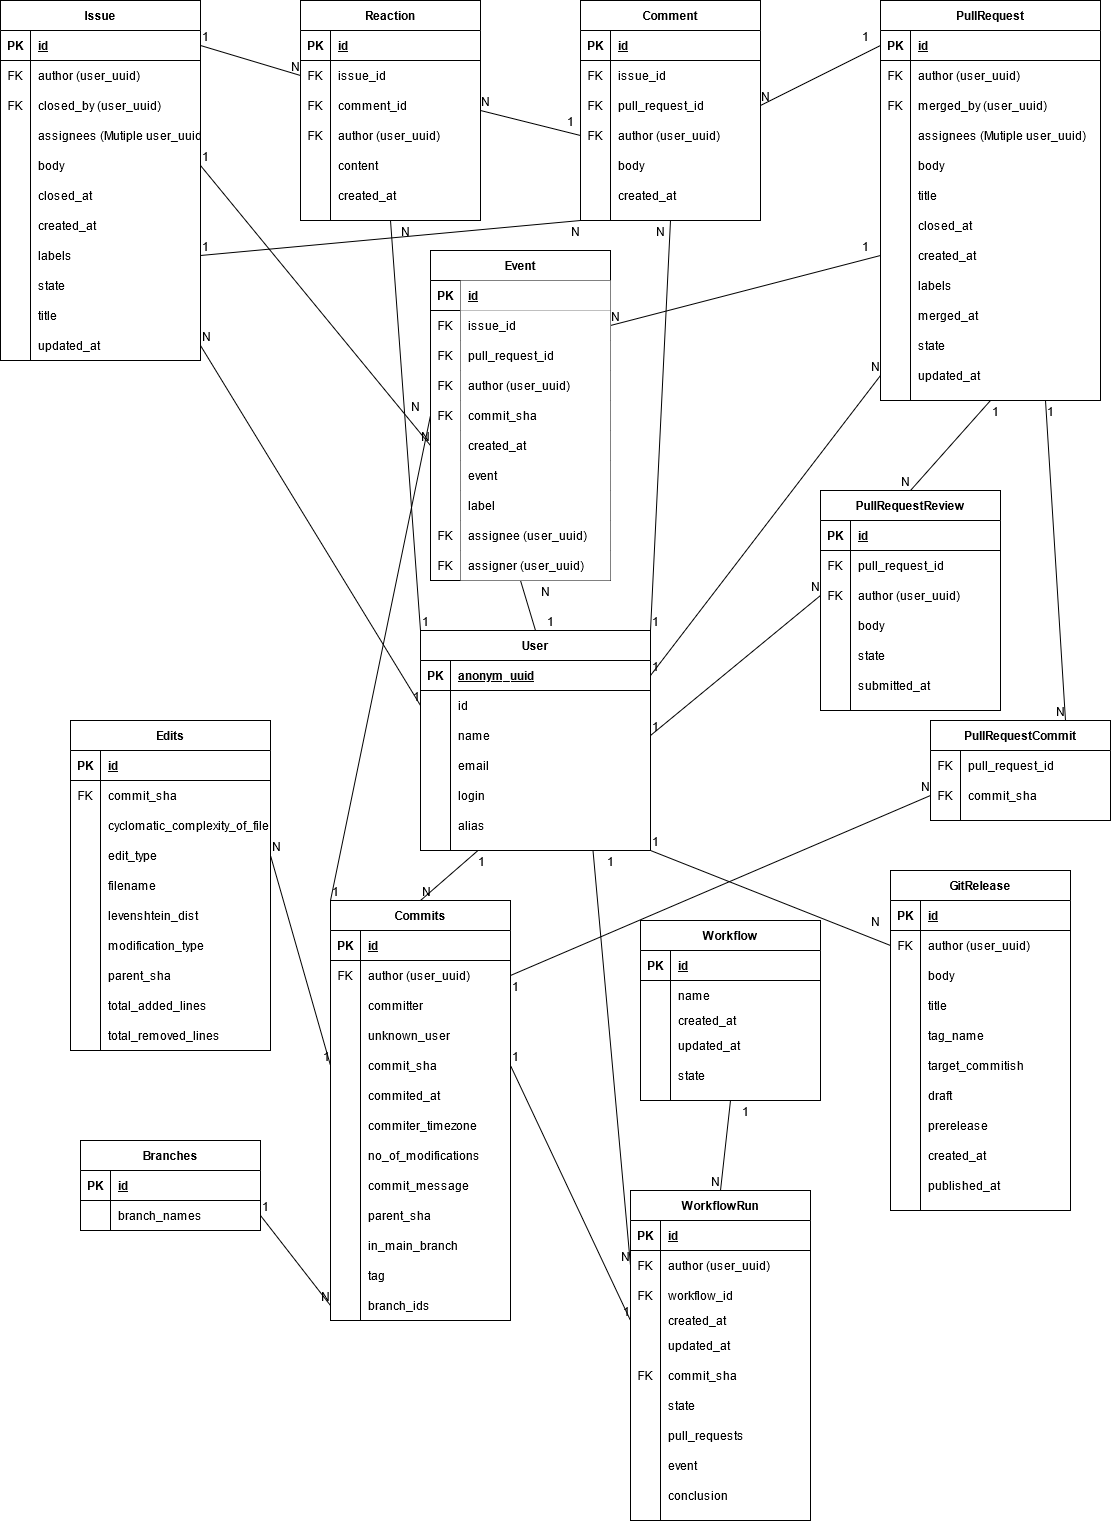
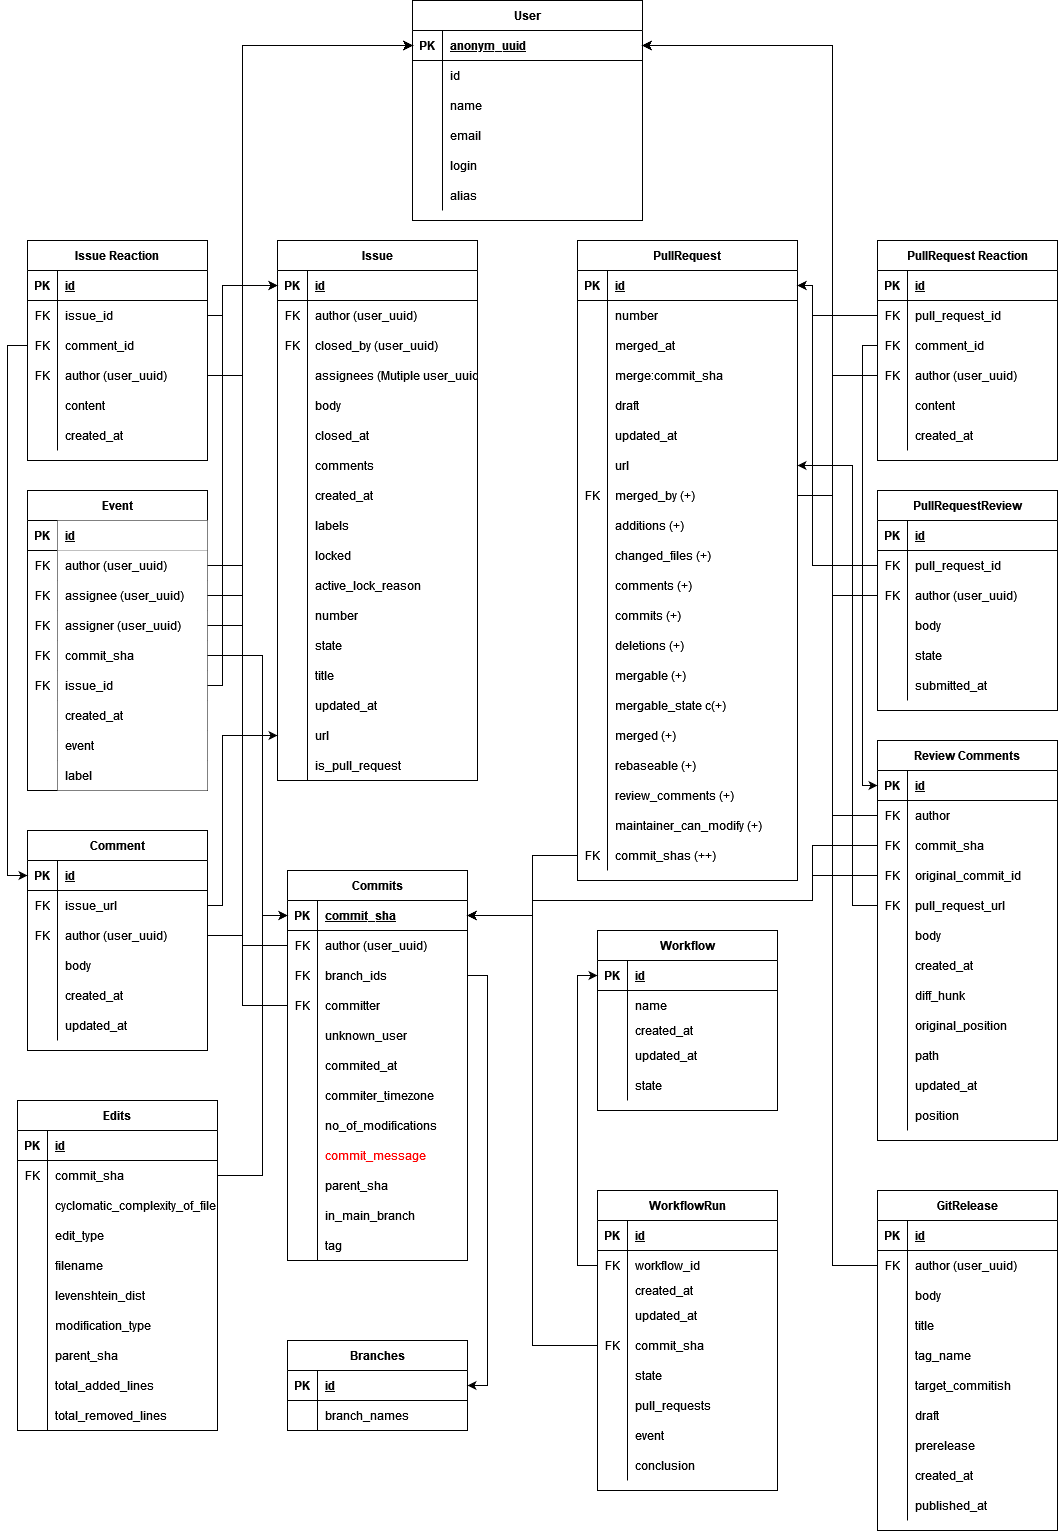
update ER and resolve bug

diff --git a/github2pandas/github2pandas.py b/github2pandas/github2pandas.py
@@ -113,14 +113,12 @@ class GitHub2Pandas():
             self.version = version
             self.workflows_params = workflows_params
 
-    class Files():
+    class Files(Core.Files):
         """
         A file class that holds all file names and the folder name.
 
         Attributes
         ----------
-        DATA_DIR : str
-            Folder name for this module.
         REPOS : str
             Filename of the repos json file.
         GIT_RELEASES : GitReleases.Files
@@ -135,8 +133,8 @@ class GitHub2Pandas():
             Folder and files for version.
         WORKFLOWS : Workflows.Files
             Folder and files for workflows.
-        CORE : Core.Files
-            Folder and files for core.
+        USER : Core.UserFiles
+            User pandas files.
 
         Methods
         -------
@@ -153,48 +151,27 @@ class GitHub2Pandas():
         REPOSITORY = Repository.Files
         VERSION = Version.Files
         WORKFLOWS = Workflows.Files
-        CORE = Core.Files
+        USER = Core.UserFiles
 
-        @staticmethod
-        def to_list() -> list:
+        @classmethod
+        def to_dict(cls) -> dict:
             """
-            to_list()
-
-            Returns a list of all filenames.
+            to_dict(cls)
             
-            Returns
-            -------
-            list
-                List of all filenames.
-
-            """
-            return [
-                GitHub2Pandas.Files.GIT_RELEASES,
-                GitHub2Pandas.Files.ISSUES,
-                GitHub2Pandas.Files.PULL_REQUESTS,
-                GitHub2Pandas.Files.REPOSITORY,
-                GitHub2Pandas.Files.VERSION,
-                GitHub2Pandas.Files.WORKFLOWS,
-                GitHub2Pandas.Files.CORE
-            ]
-
-        @staticmethod
-        def to_dict() -> dict:
-            """
-            to_dict()
-            
-            Returns a dict with the folder as key and the list of all filenames as value.
+            Returns a dict with the folder as key and the list of all pandas filenames as value.
             
             Returns
             -------
             dict
-                Dictionary with the folder as key and the list of all filenames as value.
+                Dictionary with the folder as key and the list of all pandas filenames as value.
 
             """
-            d = {}
-            for files in GitHub2Pandas.Files.to_list():
-                d.update(files.to_dict())
-            return d
+            files = {}
+            for var, value in vars(cls).items():
+                if not isinstance(value,str):
+                    if hasattr(value, "DATA_DIR"):
+                        files[value.DATA_DIR] = value.to_list()
+            return files
 
     def __init__(self, github_token: str, data_root_dir: Path, request_maximum: int = 40000, log_level: int = logging.INFO) -> None:
         """
@@ -537,7 +514,7 @@ class GitHub2Pandas():
         writer = pd.ExcelWriter(Path(repo_data_dir,f'{filename}.xlsx'), engine='xlsxwriter')
         for folder, files in GitHub2Pandas.Files.to_dict().items():
             for file in files:
-                if not isinstance(file,dict):
+                if file.endswith(".p"):
                     df = GitHub2Pandas.get_pandas_data_frame(repo_data_dir,folder,file)
                     df.to_excel(writer, sheet_name=file[:-2])
         writer.save()

diff --git a/github2pandas/pull_requests.py b/github2pandas/pull_requests.py
@@ -115,19 +115,6 @@ class PullRequests(Core):
         PULL_REQUESTS_REACTIONS = "PullRequestsReactions.p"
         REVIEWS = "Reviews.p"
 
-        @staticmethod
-        def to_list() -> list:
-            return [
-                PullRequests.Files.PULL_REQUESTS,
-                PullRequests.Files.REVIEWS_COMMENTS,
-                PullRequests.Files.PULL_REQUESTS_REACTIONS,
-                PullRequests.Files.REVIEWS
-            ]
-
-        @staticmethod
-        def to_dict() -> dict:
-            return {PullRequests.Files.DATA_DIR: PullRequests.Files.to_list()}
-
     def __init__(self, github_connection: Github, repo: GitHubRepository, data_root_dir: Path, request_maximum: int = 40000, log_level: int = logging.INFO) -> None:
         """
         __init__(self, github_connection, repo, data_root_dir, request_maximum, log_level)
@@ -292,7 +279,7 @@ class PullRequests(Core):
                     number = int(issues_df.loc[count,"number"])
                     pull_request = self.save_api_call(self.repo.get_pull, number)
                     self.extract_pull_request(pull_request, params)
-        if params.review_comment:
+        if params.review_comments:
             # extract comments
             self.extract_with_updated_and_since(
                 self.repo.get_pulls_comments,
@@ -302,7 +289,7 @@ class PullRequests(Core):
         if extract_pull_requests:
             pull_request_df = DataFrame(self.__pull_request_list)
             self.save_pandas_data_frame(PullRequests.Files.PULL_REQUESTS, pull_request_df)
-        if params.review_comment:
+        if params.review_comments:
             review_comment_df = DataFrame(self.__review_comment_list)
             self.save_pandas_data_frame(PullRequests.Files.REVIEWS_COMMENTS, review_comment_df)
         if params.reviews:
@@ -357,7 +344,7 @@ class PullRequests(Core):
             for i in range(self.request_maximum):
                 try:
                     commit = self.get_save_api_data(commits, i)
-                    pull_request_data["commits"].append(commit.sha)
+                    pull_request_data["commit_shas"].append(commit.sha)
                 except IndexError:
                     break
         self.__pull_request_list.append(pull_request_data)

diff --git a/github2pandas/core.py b/github2pandas/core.py
@@ -230,9 +230,9 @@ class Core():
         Methods
         -------
         to_list()
-            Returns a list of all filenames.
+            Returns a list of all pandas filenames.
         to_dict()
-            Returns a dict with the folder as key and the list of all filenames as value.
+            Returns a dict with the folder as key and the list of all pandas filenames as value.
         
         """
         DATA_DIR = ""
@@ -242,18 +242,23 @@ class Core():
             """
             to_list(cls)
 
-            Returns a list of all filenames.
+            Returns a list of all pandas filenames.
             
             Returns
             -------
             list
-                List of all filenames.
+                List of all pandas filenames.
 
             """
             filenames = []
             for var, value in vars(cls).items():
-                if isinstance(value,str) and not "DIR" in var and not var.startswith("__"):
-                    filenames.append(value)
+                if isinstance(value,str):
+                    if value.endswith(".p") and not var.startswith("__"):
+                        filenames.append(value)
+                else:
+                    if hasattr(value, "to_list"):
+                        for item in value.to_list():
+                            filenames.append(item)
             return filenames
 
         @classmethod
@@ -261,15 +266,16 @@ class Core():
             """
             to_dict(cls)
             
-            Returns a dict with the folder as key and the list of all filenames as value.
+            Returns a dict with the folder as key and the list of all pandas filenames as value.
             
             Returns
             -------
             dict
-                Dictionary with the folder as key and the list of all filenames as value.
+                Dictionary with the folder as key and the list of all pandas filenames as value.
 
             """
             return {cls.DATA_DIR: cls.to_list()}
+
     
     class UserFiles(Files):
         """

diff --git a/tests/test_github2pandas.py b/tests/test_github2pandas.py
@@ -7,7 +7,7 @@ import shutil
 from github2pandas.core import Core
 from github2pandas.github2pandas import GitHub2Pandas
 
-class TestPullRequests(unittest.TestCase):
+class TestGitHub2Pandas(unittest.TestCase):
     """
     Test case for GitHub2Pandas class.
     """
@@ -21,13 +21,11 @@ class TestPullRequests(unittest.TestCase):
     data_root_dir = Path("test_data")
     log_level = logging.DEBUG
 
-    def __init__(self, methodName: str = ...) -> None:
+    def __init__(self, methodName: str = "...") -> None:
         super().__init__(methodName)
         if self.data_root_dir.exists() and self.data_root_dir.is_dir():
             shutil.rmtree(self.data_root_dir, onerror=Core.file_error_handling)
         self.data_root_dir.mkdir(parents=True, exist_ok=True)
-        print(Core.UserFiles.to_list())
-        print(Core.UserFiles.to_dict())
         pass
 
     def test_get_repository_information(self):
@@ -55,8 +53,15 @@ class TestPullRequests(unittest.TestCase):
         repo_data_dir = Path(self.data_root_dir,self.git_repo_owner,self.git_repo_name)
         for files in GitHub2Pandas.Files.to_list():
             for file in files.to_list():
-                if isinstance(file, str):
+                if file.endswith(".p"):
                     df = GitHub2Pandas.get_pandas_data_frame(repo_data_dir, files.DATA_DIR, file)
 
 if __name__ == "__main__":
-    unittest.main()
+    #unittest.main()
+    files = GitHub2Pandas.Files.to_list()
+    files = GitHub2Pandas.Files.to_dict()
+    data_root_dir = Path("test_data")
+    git_repo_name = "github2pandas"
+    git_repo_owner = "TUBAF-IFI-DiPiT"
+    GitHub2Pandas.save_tables_to_excel(Path(data_root_dir,git_repo_owner,git_repo_name))
+    pass
